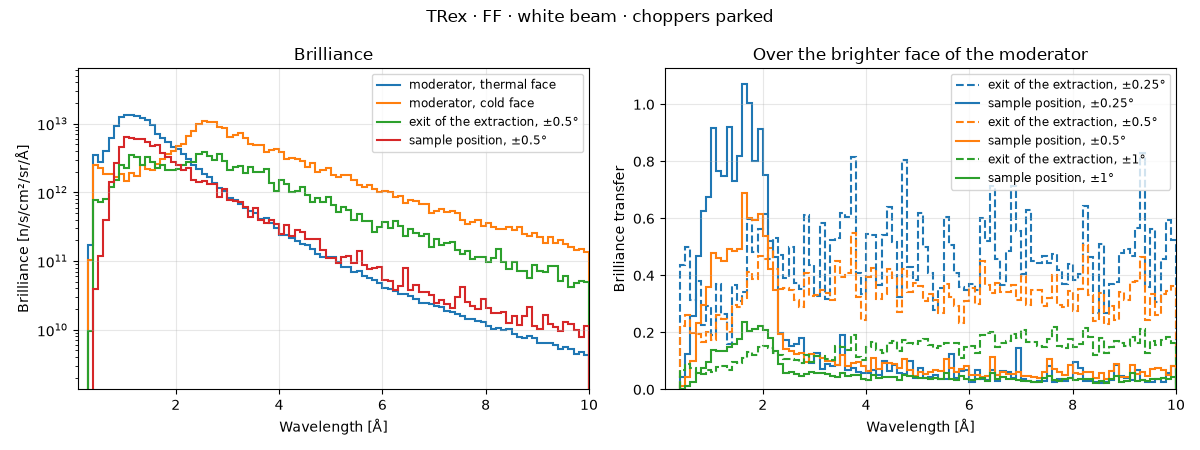
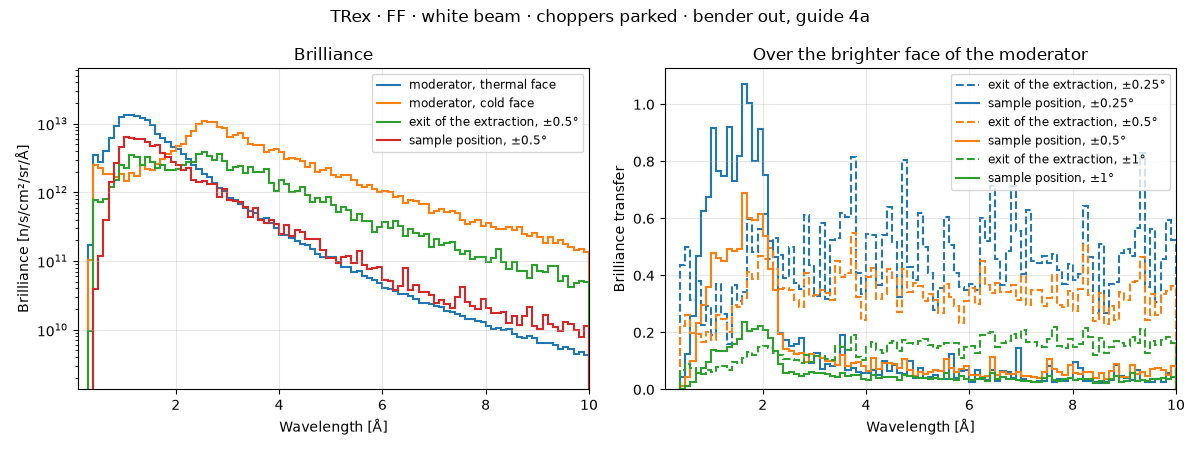
Read the brilliance transfer of T-Rex with the bender in too, on the Guides page
brilliance_transfer.main runs T-Rex on both paths through guide 4, bender out through guide 4a
and bender in through the bender and guide 4b, against one run of the moderator, and saves a
figure for each. With the bender in, the cold neutrons reach the middle of the sample position
at 0.73 to 0.85 of the cold face within ±0.25°. Making the figures on the Guides page keeps
its sentence on the run folders of guides_diagnostics with that module.

Changed region(s): [[0.3392, 0.0, 0.74, 0.0622], [0.2775, 0.0311, 0.3083, 0.0622]]

diff --git a/src/mcdgs/diagnostics/trex/brilliance_transfer.py b/src/mcdgs/diagnostics/trex/brilliance_transfer.py
@@ -7,9 +7,9 @@ could give there the guides deliver: 1 at most.
 
 A :class:`Window` is an area across the beam, centered on its axis, and a divergence of
 ± its half divergence from the axis, both horizontally and vertically. :func:`main` reads
-windows at two points of T-Rex, in the white beam with its choppers parked and the bender out,
-as :mod:`.guides_diagnostics` runs it: before the beam monitor, at the exit of the extraction,
-and before ``sample_pos``.
+windows at two points of T-Rex, in the white beam with its choppers parked, as
+:mod:`.guides_diagnostics` runs it, first with the bender out, then with it in: before the beam
+monitor, at the exit of the extraction, and before ``sample_pos``.
 
 The brilliance of the moderator comes from :class:`ModeratorView`: the source alone, and a plane
 ``REFERENCE_DISTANCE`` in front of it on its axis. A ray that crosses the plane at x within
@@ -18,8 +18,8 @@ brilliance there is that of the moderator at x. The thermal face, at x < 0, and 
 at x > 0, are each flat over ``THERMAL_FACE`` and ``COLD_FACE``; the reference is, at each
 wavelength, the brighter of the two, averaged over that span.
 
-The figure is on the Guides page of T-Rex, next to those of :mod:`.guides_diagnostics`. Run the
-module for it::
+The figures are on the Guides page of T-Rex, next to those of :mod:`.guides_diagnostics`. Run
+the module for them::
 
     pixi run python -m mcdgs.diagnostics.trex.brilliance_transfer --out docs/instruments/trex/figures/guides
 """
@@ -422,20 +422,23 @@ def main(
     ncount: float = 1e7,
     reference_ncount: float = 4e6,
     seed: int = 1,
-) -> Path:
-    """Run the moderator alone and T-Rex, and save the brilliance and its transfer.
+) -> list[Path]:
+    """Run the moderator alone, then T-Rex on each path, and save the brilliance and its transfer.
 
-    The figure is ``trex_brilliance_transfer.png``. The runs go to the run folders
-    ``trex_moderator_brilliance`` and ``trex_brilliance_transfer``, replaced on every run. It
-    also prints the brilliance transfer in the ``BANDS``.
+    T-Rex runs twice, first with the bender out, through guide 4a, then with it in, through the
+    bender and guide 4b. The figures are ``trex_brilliance_transfer.png`` and
+    ``trex_brilliance_transfer_bender_in.png``. The runs go to the run folders
+    ``trex_moderator_brilliance``, ``trex_brilliance_transfer`` and
+    ``trex_brilliance_transfer_bender_in``, replaced on every run. It also prints the
+    brilliance transfer of each path in the ``BANDS``.
 
     Parameters
     ----------
     out:
-        Folder of the figure. If ``None``, ``trex_brilliance_transfer`` in the results folder
+        Folder of the figures. If ``None``, ``trex_brilliance_transfer`` in the results folder
         of :meth:`.Workspace.find`.
     ncount:
-        Number of McStas neutrons of T-Rex, which keeps every ray at both points.
+        Number of McStas neutrons of T-Rex on each path, which keeps every ray at both points.
     reference_ncount:
         Number of McStas neutrons of the moderator alone, which keeps every ray on its plane.
     seed:
@@ -444,7 +447,7 @@ def main(
     Returns
     -------
     :
-        The path of the figure.
+        The paths of the figures, bender out, then bender in.
     """
     # --8<-- [start:reference]
     moderator = McStasScriptDiagnostics(define_moderator_view())
@@ -455,19 +458,28 @@ def main(
     faces = moderator_brilliance(plane, WAVELENGTH_BINS)
     # --8<-- [end:reference]
 
-    # --8<-- [start:trex]
-    diag = McStasScriptDiagnostics(define_instrument())
-    for label in POINT_NAMES:  # before each component: in its frame, on its axis
-        diag.add_point(before=label.removeprefix("before "))
-    diag.add_view("x", "y", bins=100)
-    diag.run(NAME, ncount=ncount, seed=seed)
-    points = diag.rays(*RAY_VARIABLES)
-    # --8<-- [end:trex]
+    folder = cli.output_folder(out, NAME)
+    figures = []
+    for bender_in in (False, True):
+        run_name = f"{NAME}_bender_in" if bender_in else NAME
+        instrument = define_instrument()
+        instrument.update_params(bender_in=bender_in)
+        # --8<-- [start:trex]
+        diag = McStasScriptDiagnostics(instrument)
+        for label in POINT_NAMES:  # before each component: in its frame, on its axis
+            diag.add_point(before=label.removeprefix("before "))
+        diag.add_view("x", "y", bins=100)
+        diag.run(run_name, ncount=ncount, seed=seed)
+        points = diag.rays(*RAY_VARIABLES)
+        # --8<-- [end:trex]
 
-    _print_bands(faces, points, WAVELENGTH_BINS)
-    title = diag.simulation.instrument.running_conditions()
-    fig = plot_brilliance_transfer(faces, points, WAVELENGTH_BINS, title)
-    return cli.save_figure(fig, cli.output_folder(out, NAME) / f"{NAME}.png", dpi=100)
+        path = "bender in, guide 4b" if bender_in else "bender out, guide 4a"
+        print(path)
+        _print_bands(faces, points, WAVELENGTH_BINS)
+        title = f"{instrument.running_conditions()} · {path}"
+        fig = plot_brilliance_transfer(faces, points, WAVELENGTH_BINS, title)
+        figures.append(cli.save_figure(fig, folder / f"{run_name}.png", dpi=100))
+    return figures
 
 
 if __name__ == "__main__":

diff --git a/tests/diagnostics/test_trex_brilliance_transfer.py b/tests/diagnostics/test_trex_brilliance_transfer.py
@@ -91,11 +91,15 @@ def test_the_moderator_view_is_the_source_of_trex_aimed_at_its_plane():
     assert reach < bt.COLD_FACE[0] < bt.COLD_FACE[1] <= bt.REFERENCE_WIDTH / 2
 
 
-def test_main_runs_the_moderator_then_trex_and_saves_the_figure(tmp_path, monkeypatch):
+def test_main_runs_the_moderator_then_trex_on_each_path_and_saves_the_figures(
+    tmp_path, monkeypatch
+):
     runs = []
 
     def run(self, folder_name, **kwargs):
-        runs.append((self.simulation.instrument.name, folder_name, kwargs, list(self._points)))
+        instrument = self.simulation.instrument
+        bender_in = getattr(instrument.params, "bender_in", None)
+        runs.append((instrument.name, bender_in, folder_name, kwargs, list(self._points)))
         return SimpleNamespace(folder=tmp_path / folder_name)
 
     def rays(self, *variables):
@@ -105,22 +109,26 @@ def test_main_runs_the_moderator_then_trex_and_saves_the_figure(tmp_path, monkey
 
     monkeypatch.setattr(McStasScriptDiagnostics, "run", run)
     monkeypatch.setattr(McStasScriptDiagnostics, "rays", rays)
-    path = bt.main(out=tmp_path, ncount=1e3, reference_ncount=1e2, seed=2)
-    assert path == tmp_path / "trex_brilliance_transfer.png"
-    assert path.stat().st_size > 0
-    (view, view_folder, view_kwargs, view_points), (trex, folder, kwargs, points) = runs
-    assert (view, view_folder, view_kwargs) == (
+    paths = bt.main(out=tmp_path, ncount=1e3, reference_ncount=1e2, seed=2)
+    assert paths == [
+        tmp_path / "trex_brilliance_transfer.png",
+        tmp_path / "trex_brilliance_transfer_bender_in.png",
+    ]
+    assert all(path.stat().st_size > 0 for path in paths)
+    view, *trex = runs
+    assert view[:4] == (
         "trex_moderator_view",
+        None,
         "trex_moderator_brilliance",
         {"ncount": 1e2, "seed": 2},
     )
-    assert [p["before"] for p in view_points] == ["plane"]
-    assert (trex, folder, kwargs) == (
-        "TRex",
-        "trex_brilliance_transfer",
-        {"ncount": 1e3, "seed": 2},
-    )
-    assert [p["before"] for p in points] == ["beam_monitor", "sample_pos"]
+    assert [p["before"] for p in view[4]] == ["plane"]
+    assert [run[:4] for run in trex] == [
+        ("TRex", False, "trex_brilliance_transfer", {"ncount": 1e3, "seed": 2}),
+        ("TRex", True, "trex_brilliance_transfer_bender_in", {"ncount": 1e3, "seed": 2}),
+    ]
+    for run in trex:
+        assert [p["before"] for p in run[4]] == ["beam_monitor", "sample_pos"]
 
 
 def test_the_instrument_is_that_of_guides_diagnostics():

diff --git a/docs/instruments/trex/guides.md b/docs/instruments/trex/guides.md
@@ -143,9 +143,10 @@ n/s/cm²/sr/Å. Along the beam it can only fall (Liouville's theorem), so the br
 window over that of the moderator is at most 1.
 [`mcdgs.diagnostics.trex.brilliance_transfer`](https://github.com/bingli621/mcdgs/blob/main/src/mcdgs/diagnostics/trex/brilliance_transfer.py)
 reads it in windows of 1 × 1 cm on the beam axis, with a divergence of ±0.25°, ±0.5° or ±1°
-from the axis, both horizontally and vertically. It runs `TRex` as above, white beam, choppers
-parked and bender out, and reads the rays at two points: before the beam monitor, at the exit
-of the extraction, and before `sample_pos`.
+from the axis, both horizontally and vertically. It runs `TRex` as above, white beam and
+choppers parked, on both paths through guide 4: first with the bender out, through guide 4a,
+then with it in, through the bender and guide 4b. On each it reads the rays at two points:
+before the beam monitor, at the exit of the extraction, and before `sample_pos`.
 
 ### The brilliance of the moderator
 
@@ -164,10 +165,10 @@ about 2 Å, the cold one above.
 ```
 <!-- fmt:on -->
 
-### At the exit of the extraction and at the sample position
+### Bender out, through guide 4a
 
-At 1e7 neutrons of T-Rex, 4e6 of the moderator and seed 1, in bins of 0.1 Å; a bin with fewer
-than 20 rays in the window has no value:
+At 1e7 neutrons of T-Rex on each path, 4e6 of the moderator and seed 1, in bins of 0.1 Å; a bin
+with fewer than 20 rays in the window has no value:
 
 ![The brilliance of each face of the moderator and at the two points, and the brilliance transfer of each window](figures/guides/trex_brilliance_transfer.png)
 
@@ -189,12 +190,11 @@ In wider bands, from the same rays:
 - **Cold neutrons reach the middle of the sample with the brilliance of the thermal face.**
   Above 2 Å the brilliance at the sample position follows the spectrum of the thermal face,
   from 4 times below the cold one at 2 to 3 Å to 20 times at 8 to 10 Å, so the transfer drops
-  to 0.05 to 0.2. The cold face is off
-  the axis, at x > 0, so its neutrons enter guide 1 at an angle: at the exit of the extraction
-  they leave at about −0.5°, the thermal ones at about +0.25°. At the sample position the cold
-  neutrons lie on a band across position and divergence, from about −15 mm and −1° to +15 mm
-  and +1°, with most of them away from its middle, where the window is. This is with the
-  bender out, through the thermal guide 4a.
+  to 0.05 to 0.2. The cold face is off the axis, at x > 0, so its neutrons enter guide 1 at an
+  angle: at the exit of the extraction they leave at about −0.5°, the thermal ones at about
+  +0.25°. At the sample position the cold neutrons lie on a band across position and
+  divergence, from about −15 mm and −1° to +15 mm and +1°, with most of them away from its
+  middle, where the window is.
 - **Wide windows are mostly empty.** Within ±1° the transfer is low at both points: the beam
   does not fill that much divergence, as the vertical divergence at the sample position reaches
   only about ±0.7°.
@@ -204,6 +204,43 @@ In wider bands, from the same rays:
 
 The reference is the mean of each face over 4 cm, and the brightest part of the thermal face is
 about 20 % above its mean, so a bin can come out slightly above 1, as near 1.7 Å.
+
+### Bender in, through the bender and guide 4b
+
+With the bender in, from the same run of the moderator:
+
+![The brilliance of each face of the moderator and at the two points, and the brilliance transfer of each window, with the bender in](figures/guides/trex_brilliance_transfer_bender_in.png)
+
+| Window | 0.5–1 Å | 1–1.5 Å | 1.5–2 Å | 2–3 Å | 3–4 Å | 4–6 Å | 6–8 Å | 8–10 Å |
+| ------ | ------- | ------- | ------- | ----- | ----- | ----- | ----- | ------ |
+| Exit of the extraction, ±0.25° | 0.106 | 0.099 | 0.292 | 0.610 | 0.782 | 0.756 | 0.765 | 0.727 |
+| Exit of the extraction, ±0.5° | 0.033 | 0.052 | 0.200 | 0.385 | 0.469 | 0.531 | 0.560 | 0.533 |
+| Exit of the extraction, ±1° | 0.008 | 0.013 | 0.058 | 0.105 | 0.124 | 0.149 | 0.179 | 0.182 |
+| Sample position, ±0.25° | 0.037 | 0.125 | 0.448 | 0.734 | 0.799 | 0.847 | 0.778 | 0.780 |
+| Sample position, ±0.5° | 0.018 | 0.084 | 0.309 | 0.540 | 0.570 | 0.597 | 0.578 | 0.574 |
+| Sample position, ±1° | 0.005 | 0.027 | 0.106 | 0.213 | 0.242 | 0.242 | 0.243 | 0.239 |
+
+- **Cold neutrons now reach the middle of the sample with the brilliance of the cold face.**
+  Above 2 Å the brilliance at the sample position follows the spectrum of the cold face, at
+  0.73 to 0.85 of it within ±0.25° and about 0.55 to 0.6 within ±0.5°, against 0.05 to 0.24
+  and 0.06 to 0.19 with the bender out. The bender turns the cold beam onto the axis: at the
+  exit of the extraction it is centered within 0.02° of it, where without the bender it left at
+  about −0.5°. At the sample position the cold neutrons fill the middle of position and
+  divergence, where the window is.
+- **The thermal neutrons are gone.** Below 1.5 Å the transfer is 0.13 or less at the sample
+  position: the bender does not pass them, as [Bender](bender-scan.md) shows band by band. From
+  1.5 to 2 Å, where the thermal face is still the brighter, the transfer is about half that
+  above 2 Å.
+- **Most of the cold brilliance the sample position gets, it already has at the exit of the
+  extraction.** Within ±0.5° the exit keeps 0.39 to 0.56 of the cold face, and the sample
+  position 0.54 to 0.6. The two windows do not hold the same rays: the guides after the
+  extraction, which narrow the beam onto the sample, bring into the window at the sample
+  position rays that were outside the window at the exit, so its transfer can be the higher.
+- **Wide windows are still mostly empty**, at about 0.24 within ±1°, for the same reason as
+  without the bender.
+
+Within ±0.25° a bin of 0.1 Å holds few rays, so single bins scatter by up to 20 % and some
+come out above 1; the bands of the table, of 5 to 20 bins each, average that out.
 
 ## Making the figures
 
@@ -215,13 +252,16 @@ pixi run python -m mcdgs.diagnostics.trex.guides_diagnostics
 ```
 
 It saves the three figures to `mcdgs_workspace/results/trex_guides_diagnostics/`, or to the
-folder given with `--out`. The brilliance transfer is a module of its own:
+folder given with `--out`. The transmissions of the tables are read from the run folders it
+writes, `trex_guides_diagnostics` and `trex_guides_diagnostics_analysis` in the workspace. The
+brilliance transfer is a module of its own:
 
 ```bash
 pixi run python -m mcdgs.diagnostics.trex.brilliance_transfer
 ```
 
-It saves its figure to `mcdgs_workspace/results/trex_brilliance_transfer/`, or to the folder
-given with `--out`, and prints the table of the bands. Its runs go to the run folders
-`trex_moderator_brilliance` and `trex_brilliance_transfer`, about 0.5 GB of rays. The transmissions of the tables are read from the run folders it
-writes, `trex_guides_diagnostics` and `trex_guides_diagnostics_analysis` in the workspace.
+It saves its two figures, bender out and bender in, to
+`mcdgs_workspace/results/trex_brilliance_transfer/`, or to the folder given with `--out`, and
+prints the table of the bands of each path. Its runs go to the run folders
+`trex_moderator_brilliance`, `trex_brilliance_transfer` and
+`trex_brilliance_transfer_bender_in`, about 1 GB of rays.
